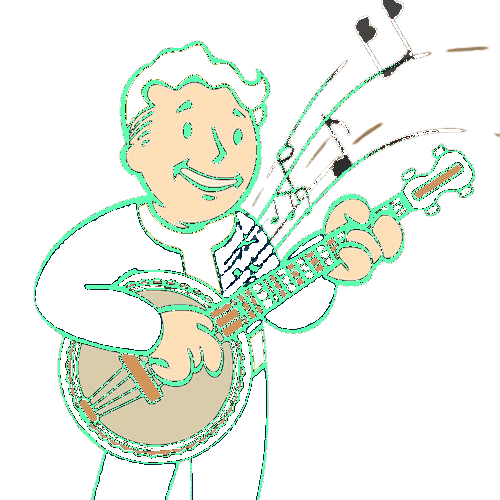
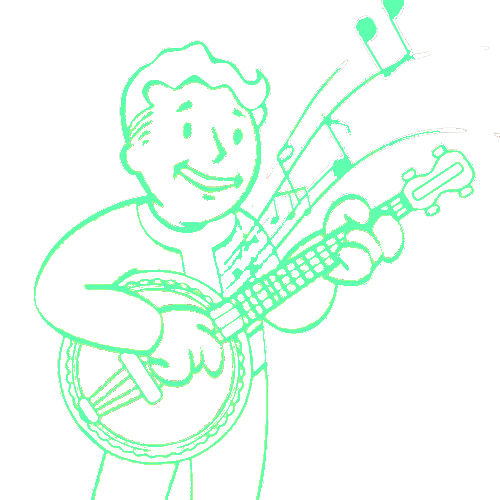
more weather info, more radio stations, new images

diff --git a/views/radio.py b/views/radio.py
@@ -12,21 +12,30 @@ class RadioView():
         self.screen = screen
         self.area = area
         self.font = pygame.font.Font('assets/fonts/monofonto_rg.otf', 20) 
-        self.background_image = pygame.image.load("assets/images/radio.png")
-        self.background_image = pygame.transform.scale(self.background_image, (self.area.width * .25, self.area.height * .35))
+        self.background_image = pygame.image.load("assets/images/vaultboy_music.png")
+        self.background_image = pygame.transform.scale(self.background_image, (self.area.width * .50, self.area.height * .75))
         self.radio_thread = None
         self.stop_event = threading.Event()
 
         self.radio_stations = [
             {'name': 'Kiss 108', 'url': 'http://stream.revma.ihrhls.com/zc1097'},
             {'name': 'Magic 106.7', 'url': 'https://live.amperwave.net/direct/audacy-wmjxfmaac-imc'},
-            {'name': 'Big 103.3', 'url': 'https://live.amperwave.net/direct/audacy-wbgbfmaac-imc'}
+            {'name': 'Big 103.3', 'url': 'https://live.amperwave.net/direct/audacy-wbgbfmaac-imc'},
+            {'name': 'WXLO 104.5', 'url': 'https://playerservices.streamtheworld.com/api/livestream-redirect/WXLOFMAAC.aac'},
+            {'name': 'Mix 104.1', 'url': 'https://eus.rubiconproject.com/usync.html?p=7562&endpoint=us-west&auid=f8k:57e0ad9f43e2ae1b816bd54f752cbdd7'},
+            {'name': '98.5 The Sports Hub', 'url': 'https://playerservices.streamtheworld.com/api/livestream-redirect/WBZFMDIALUPAAC.aac'}
         ]
         self.current_station = None
 
         self.buttons = [
             Button(self.area.x + 50, 50, 75, 25, "Kiss 108", self.font, (95, 255, 177), (95, 255, 177), transparent=True, action=self.create_action('Kiss 108')),
-            Button(self.area.x + 50, 100, 75, 25, "Magic 106.7", self.font, (95, 255, 177), (95, 255, 177), transparent=True, action=self.create_action('Magic 106.7'))
+            Button(self.area.x + 50, 100, 75, 25, "Magic 106.7", self.font, (95, 255, 177), (95, 255, 177), transparent=True, action=self.create_action('Magic 106.7')),
+            Button(self.area.x + 50, 150, 75, 25, "Big 103.3", self.font, (95, 255, 177), (95, 255, 177), transparent=True, action=self.create_action('Big 103.3')),
+            Button(self.area.x + 50, 200, 75, 25, "WXLO 104.5", self.font, (95, 255, 177), (95, 255, 177), transparent=True, action=self.create_action('WXLO 104.5')),
+            Button(self.area.x + 50, 250, 75, 25, "Mix 104.1", self.font, (95, 255, 177), (95, 255, 177), transparent=True, action=self.create_action('Mix 104.1')),
+            Button(self.area.x + 75, 300, 75, 25, "98.5 The Sports Hub", self.font, (95, 255, 177), (95, 255, 177), transparent=True, 
+                   action=self.create_action('98.5 The Sports Hub')),
+            
         ]
 
         self.waves = AudioWaves(screen, area)
@@ -34,11 +43,11 @@ class RadioView():
 
     def draw_background(self):
         self.background_image.set_alpha(128)
-        self.screen.blit(self.background_image, (self.area.right - (self.area.right * .35), self.area.top + (self.area.top * .35)))
-        self.draw_buttons()
+        center_x = self.area.left + (self.area.width - self.background_image.get_width()) // 2
+        center_y = self.area.top + (self.area.height - self.background_image.get_height()) // 2
 
-        # if self.current_station != None:
-        #     self.play_stream(self.current_station)
+        self.screen.blit(self.background_image, (center_x, center_y))
+        self.draw_buttons()
     
 
     def draw_buttons(self):
@@ -104,11 +113,10 @@ class RadioView():
                 button.is_active = (button.text == button_name)
             print(f"{button_name} button clicked!")
 
-            if button_name == "Kiss 108":
-                self.set_current_station(self.radio_stations[0])
-            if button_name == "Magic 106.7":
-                self.set_current_station(self.radio_stations[1])
-
+            for station in self.radio_stations:
+                if button_name == station['name']:
+                    self.set_current_station(station)
+                    break
         return action
 
 

diff --git a/views/weather.py b/views/weather.py
@@ -54,14 +54,27 @@ class WeatherView():
         location = self.weather_data['location']['name'] 
         temp_f = self.weather_data["current"]["temp_f"]
         condition = self.weather_data["current"]["condition"]["text"]
+        wind_mph = self.weather_data['current']['wind_mph']
+        wind_chill = self.weather_data['current']['windchill_f']
+        feels_like_f = self.weather_data['current']['feelslike_f']
+        uv = self.weather_data['current']['uv']
+        
 
         location_text = self.font.render(f'Location: {location}, {self.weather_data["location"]["region"]}', True, self.main_font_color)
         temp_text = self.font.render(f"Temp: {temp_f}°F", True, self.main_font_color)
         condition_text = self.font.render(condition, True, self.main_font_color)
+        wind_mph_text = self.font.render(f'Wind: {str(wind_mph)} mph', True, self.main_font_color)
+        wind_chill_text = self.font.render(f'Wind Chill: {str(wind_chill)}°F', True, self.main_font_color)
+        feels_like_f_text = self.font.render(f'Feels Like: {str(feels_like_f)}°F', True, self.main_font_color)
+        uv_text = self.font.render(f'UV: {str(uv)}', True, self.main_font_color)
 
         self.screen.blit(location_text, (self.area.left + 50, self.area.top + 50))
         self.screen.blit(temp_text, (self.area.left + 50, self.area.top + 90))
         self.screen.blit(condition_text, (self.area.left + 50, self.area.top + 130))  
+        self.screen.blit(wind_mph_text, (self.area.left + 50, self.area.top + 170))  
+        self.screen.blit(wind_chill_text, (self.area.left + 50, self.area.top + 210))  
+        self.screen.blit(feels_like_f_text, (self.area.left + 50, self.area.top + 250))  
+        self.screen.blit(uv_text, (self.area.left + 50, self.area.top + 290))  
 
         try:
             weather_image = pygame.image.load(self.weather_images[condition])
